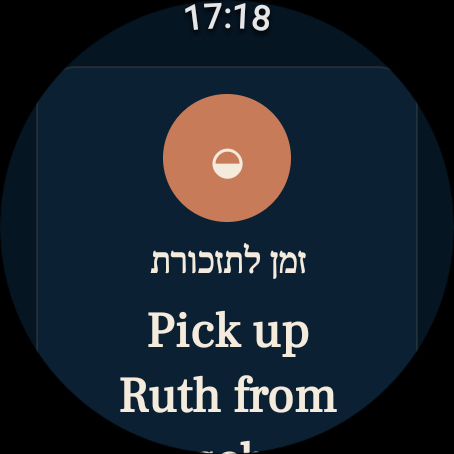
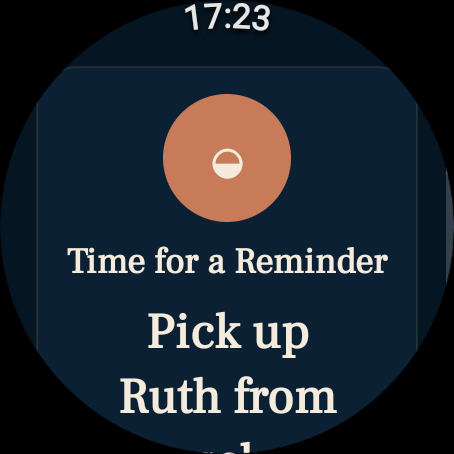
Fix English alert title in store screenshot

diff --git a/app/src/main/java/com/woodpeckerbros/watchreminder/UiText.java b/app/src/main/java/com/woodpeckerbros/watchreminder/UiText.java
@@ -180,6 +180,7 @@ public class UiText {
         put("פעילה", "Active");
         put("כבוי", "Off");
         put("תזכורת דף היומי פעילה", "Daf Yomi reminder active");
+        put("זמן לתזכורת", "Time for a Reminder");
         put("בדיקת לימוד דף היומי", "Daf Yomi Study Check");
         put("תיקון סימון", "Fix Marking");
         put("אם סימנת בטעות שלמדת, אפשר להחזיר דף לרשימת ההשלמות", "If you marked a page learned by mistake, you can move it back to the catch-up list");

diff --git a/PROJECT_STATUS.md b/PROJECT_STATUS.md
@@ -67,6 +67,7 @@ WatchReminder/
 - הוסר תזמון כפול וזהה של תקופות בסיום תחזוקת פתיחת האפליקציה. נוספו 3 בדיקות בטיחות להתנהגות דיווחי שינה/ערות; `testDebugUnitTest` ו־`assembleDebug` עברו. השעון לא היה מחובר ל־ADB ולכן הגרסה טרם הותקנה בסבב זה.
 - מסכי ההתראה הופרדו ל־task זמני ללא affinity לאפליקציה. כך התראה אינה מעלה לקדמה task ישן של WatchReminder שהיה ברקע: בסגירתה נחשף בדיוק המסך שהיה בקדמת השעון קודם — לוח השעון, אפליקציה אחרת או המסך הפעיל של WatchReminder — ללא טעינה מיותרת של האפליקציה.
 - נוצרו שני סטים של צילומי Wear OS מוכנים לחנות תחת `store-assets/screenshots/wear`: שמונה בעברית ושמונה באנגלית, כולם JPEG אטומים ביחס 1:1 ובגודל 454×454. הצילומים נוצרו באמולטור בלבד עם נתוני הדגמה, וכוללים מסכי בוקר/צהריים/לילה, איסוף מהגן ב־15:15, מנחה 25 דקות לפני צאת הכוכבים, יום נישואין עברי עם מונה 16, זמני שבת והתראה כהה. רכיב הזנת נתוני ההדגמה היה זמני והוסר מהקוד לאחר הצילום.
+- נוסף התרגום החסר „Time for a Reminder” לכותרת מסך ההתראה באנגלית, לאחר שהפער התגלה בבדיקת צילומי החנות.
 - בוצע סבב ראשון של חיסכון בסוללה: שירות ההמתנה לענידת השעון מוגבל כעת לחמש דקות, אינו `START_STICKY`, ולאחר עצירתו מתוזמנת בדיקה חסכונית ולא־מדויקת אחת כל 15 דקות כל עוד קיימות התראות ממתינות. עם זיהוי חזרה ליד בדיקת הגיבוי מבוטלת וההתראות שחלפו מוזרמות מיד.
 - אם השעון מוסר מהיד בזמן 30 השניות שלאחר הצגת התראה, הדחייה האוטומטית אינה יוצרת עוד snooze ויקיצה כל חמש דקות; המופע הפעיל מועבר בשלמותו לתור ההמתנה לענידה ונשאר במצב שלא אושר.
 - בקשות רענון סמוכות של complications מאוחדות כעת באמצעות debounce של 15 שניות. ברירת המחדל של סגנון הרטט נשארה „רגיל”, וברירת המחדל של אורך ההתראה שונתה ל־3 שניות.
